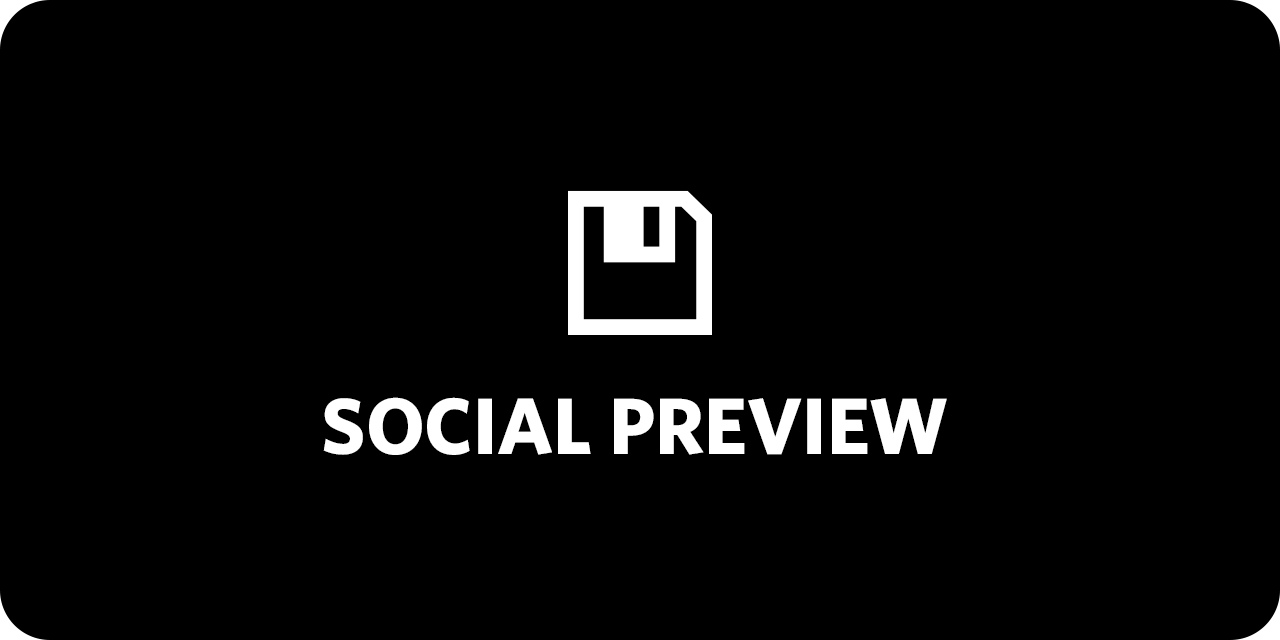
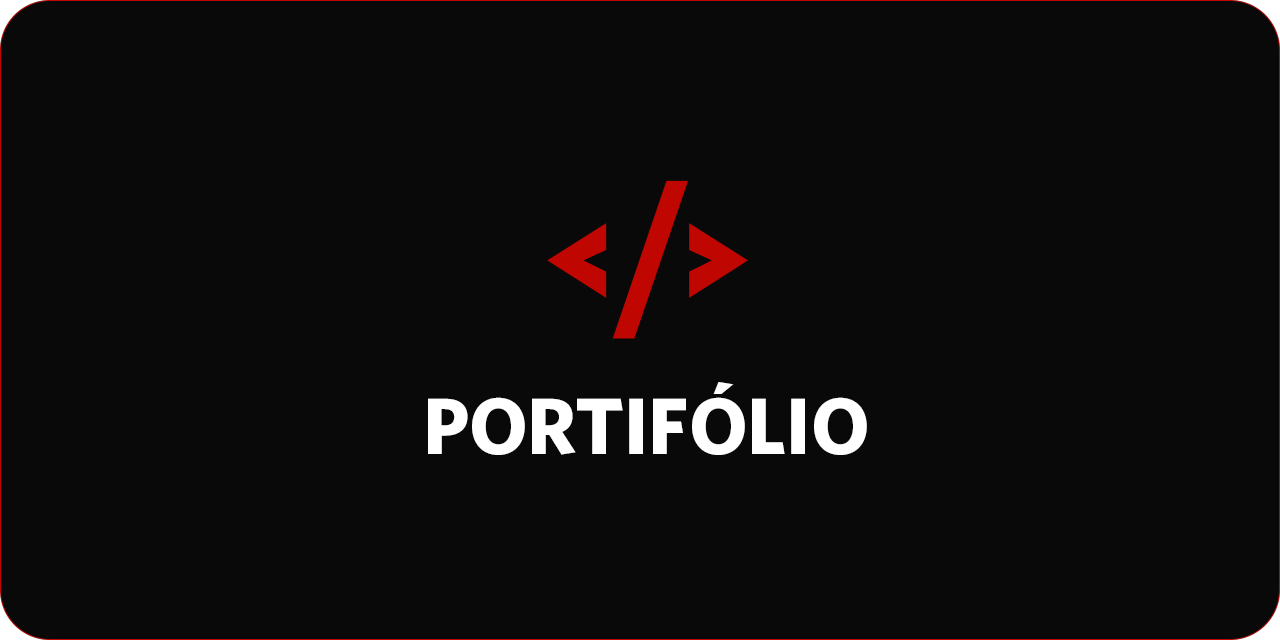
docs: update README with overview, social image and Lighthouse scores

Changed region(s): [[0.25, 0.5938, 0.75, 0.7188], [0.4375, 0.2812, 0.5938, 0.5312]]

diff --git a/README.md b/README.md
@@ -1,4 +1,4 @@
-<!-- ![Social Preview](./design/github/social-preview/social-preview.png) -->
+[Social Preview](./design/github/social-preview/social-preview.png)
 
 <h1 align="center"> 🎩 Portfólio 👨💻 </h1>
 
@@ -27,7 +27,7 @@
 
 ## 📖 Overview
 
-Comming Soon!
+This repository contains my personal portfolio, designed to showcase my projects, technical skills, and professional experience as a Frontend Developer. It serves as a central hub where visitors can explore featured applications, learn about my development journey, and easily access my contact information. The project was built with a strong focus on performance, responsiveness, accessibility, and a modern user experience.
 
 ## 🛠 Technologies
 
@@ -39,7 +39,7 @@ The following technologies were used to build this project:
 
 ## ⚡ Performance & PWA
 
-Comming Soon!
+![Lighthouse Performance](./design/github/lighthouse-report/lighthouse-report-light.png)
 
 ## 🚀 Demo
 
@@ -49,15 +49,15 @@ Portfólio: [https://epiled.github.io/portfolio/](https://epiled.github.io/portf
 
 ### Desktop
 
-Comming Soon!
+Coming Soon!
 
 ### Mobile
 
-Comming Soon!
+Coming Soon!
 
 ## 📦 Install and Use
 
-This project currently operates without a local development server or build step, meaning it can be run directly from your file system.
+**Prerequisites:** Node.js (v22.x) or higher installed.
 
 1. Clone the repository:
 ```bash
@@ -65,13 +65,30 @@ git clone https://github.com/Epiled/portfolio.git
 cd portfolio
 ```
 
-### Local Execution
+2. Install the dependencies:
+```bash
+npm install
+```
 
-To view and interact with the project, simply open the index.html file in your preferred web browser. You can do this by double-clicking the file in your file explorer or dragging it into an open browser tab.
+3. Run the development environment (Build + Watch + Server):
+```bash
+npm run dev
+```
 
 ## 📂 File Structure
 
-Comming Soon!
+Below is the project architecture. All development should be done inside the src/ folder
+
+```
+portifolio/
+├── design/                  # Wireframes, videos and assets for documentation
+├── src/                     # Main source code (Development)
+│   ├── assets/              # Original images and icons
+│   ├── css/                 # Styles following architecture BEM
+│   └── js/                  # UI logic and PWA registration
+├── index.html               # Base semantic structure and main markup
+└── package.json             # Project dependencies and npm scripts
+```
 
 ## 🎨 Reference & Inspiration
 